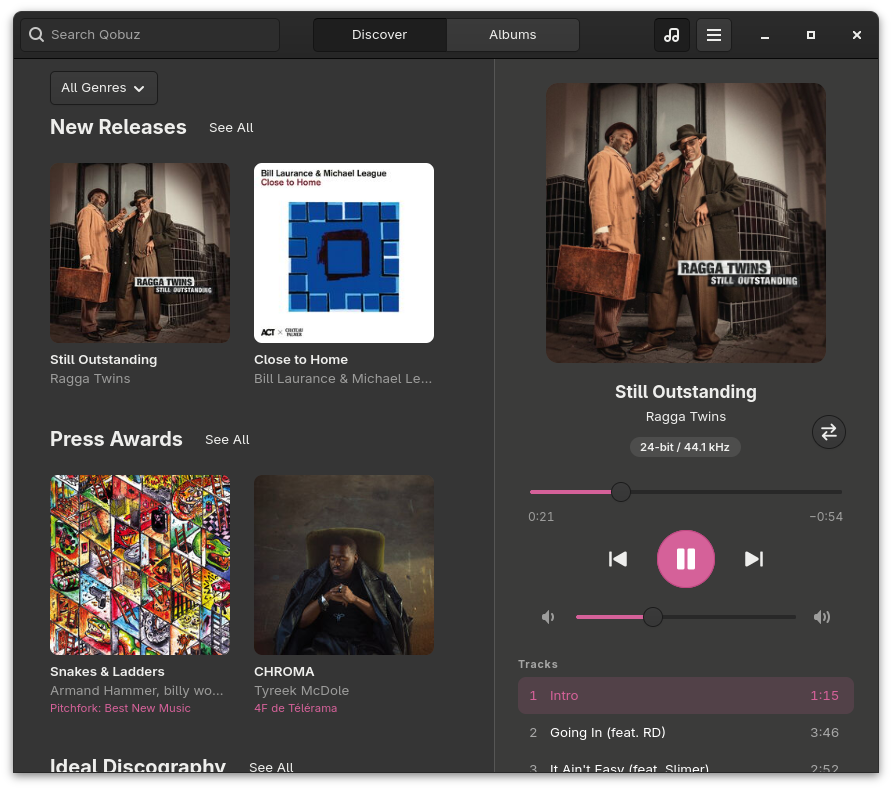
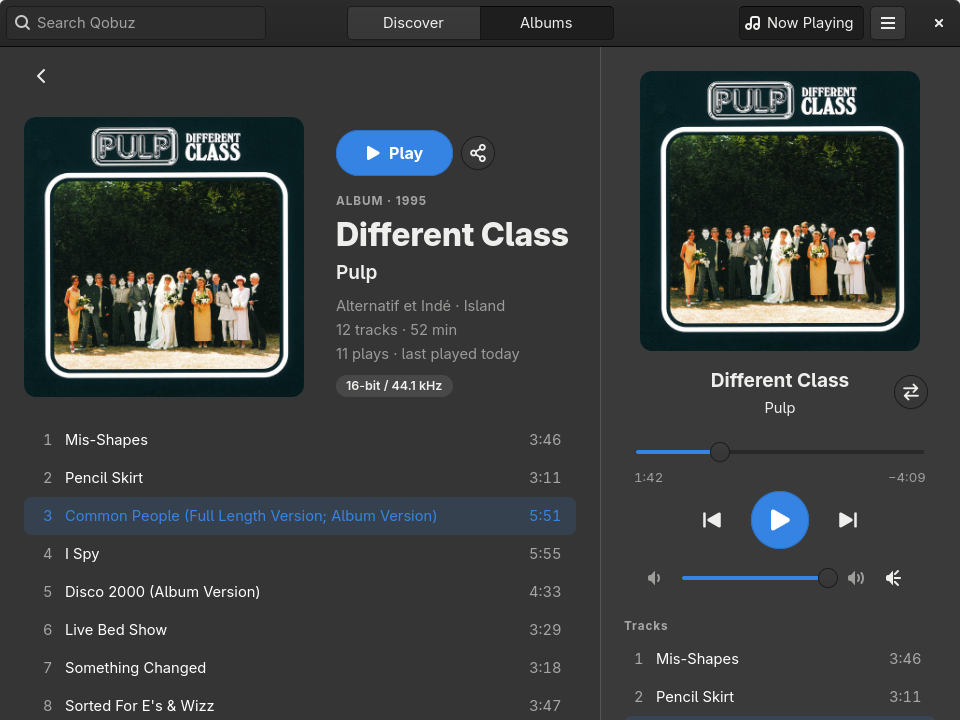
Retake the screenshots, and bring the README up to date
The same four screens on both apps: the albums, an album, Discover and the stats, the desktop's
two of them in light, two in dark. The README shows the icon at its top, all eight screenshots,
and what Pochette does now: Album of the Week, sharing and Qobuz links, ten languages.

diff --git a/README.md b/README.md
@@ -1,3 +1,7 @@
+<p align="center">
+  <img src="data/icons/hicolor/scalable/apps/io.github.mcrampon.Pochette.svg" alt="Pochette's icon" width="128">
+</p>
+
 # Pochette
 
 A [Qobuz](https://www.qobuz.com) player for Linux and Android, built around albums: your library of whole albums, played from the first track to the last.
@@ -8,8 +12,12 @@ and is not affiliated with Qobuz.
 ## Screenshots
 
 <p align="center">
+  <img src="data/screenshots/albums-light.png" alt="Your albums, in light mode" width="49%">
+  <img src="data/screenshots/playing-dark.png" alt="An album, playing, in dark mode" width="49%">
+</p>
+<p align="center">
   <img src="data/screenshots/discover-light.png" alt="Discover, in light mode" width="49%">
-  <img src="data/screenshots/playing-dark.png" alt="Playing an album, in dark mode" width="49%">
+  <img src="data/screenshots/stats-dark.png" alt="Listening stats, in dark mode" width="49%">
 </p>
 <p align="center">
   <img src="fastlane/metadata/android/en-US/images/phoneScreenshots/1.png" alt="Albums, on Android" width="24%">
@@ -21,20 +29,24 @@ and is not affiliated with Qobuz.
 ## Features
 
 - **Albums**: your saved albums, to search, filter by genre and decade, sort, or play at random
-- **Discover**: Qobuz's new releases, press awards and ideal discography, by genre
+- **Discover**: Qobuz's new releases, press awards, album of the week and ideal discography,
+  by genre
 - **Offline listening**, on Android: download albums, on Wi-Fi or not, in a quality of their
   own, and play them with no connection
 - **Takes up where you left off**: reopened, Pochette has the album you were playing ready,
   paused where you were in the track
 - **Listening stats**: your top albums, artists and genres, and how much you listened, by
-  month or year
+  day, month or year
 - **Devices**: your plays synced between your computers and your phone on the same network,
   even while Pochette is closed
+- **Share** albums, and open Qobuz's links to albums and artists in Pochette
 - **Lyrics** that follow the song, looked up on [LRCLIB](https://lrclib.net) while you show them
 - **Hi-Res** streaming, up to what your subscription allows
 - **Plays reported to Qobuz**, as its own apps do, so the artists get paid for what you hear
 - **Media keys** and desktop media controls, through MPRIS; on Android, the system's media
   controls, headphones and cars
+- **Ten languages**: English (US and UK), German, Spanish, French (France and Canada),
+  Italian, Polish, Portuguese (Brazil) and Chinese (Simplified)
 - Your desktop's **accent color**, light and dark modes
 
 The desktop app is built with GTK 4 and Relm4, the Android app with Jetpack Compose and Media3.
